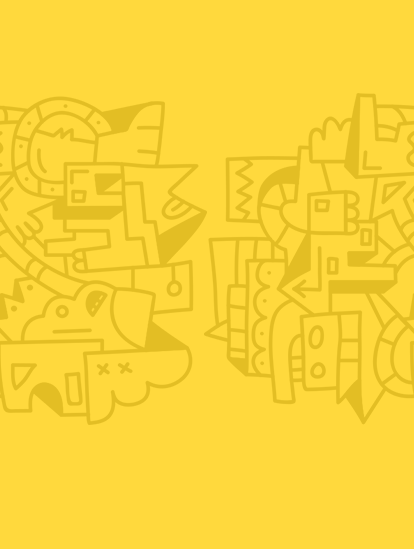
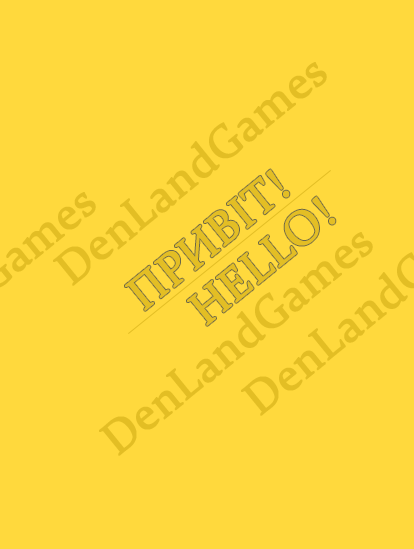
q3twytjh

Changed region(s): [[0.0, 0.0929, 1.0, 0.8361]]

diff --git a/Змійка/script.js b/Змійка/script.js
@@ -71,9 +71,14 @@ function drawGame() {
     snake.pop();
 
   if(snakeX < box || snakeX > box * 17
-    || snakeY < 3 * box || snakeY > box * 17)
+    || snakeY < 3 * box || snakeY > box * 17){
+    ctx.clearRect(0, 0, canvas.width, canvas.height);
+    ctx.drawImage(ground, 0, 0);
+    ctx.fillStyle = "white";
+    ctx.font = "50px Arial";
+    ctx.fillText(score, box * 2.5, box * 1.7);
     clearInterval(game);
-
+}
   if(dir == "left") snakeX -= box;
   if(dir == "right") snakeX += box;
   if(dir == "up") snakeY -= box;
@@ -83,6 +88,12 @@ function drawGame() {
     x: snakeX,
     y: snakeY
   };
+  var Record = document.getElementById('reco');
+  var rec=0;
+  if(rec<score){
+    rec=score;
+  }
+Record.innerHTML = "найкращий результат: "+rec;
 
   eatTail(newHead, snake);
 
@@ -92,6 +103,7 @@ function drawGame() {
 let game = setInterval(drawGame, 100);
 
 function restart(){
+  score=0
   let food = {
   x: Math.floor((Math.random() * 17 + 1)) * box,
   y: Math.floor((Math.random() * 15 + 3)) * box,
@@ -171,4 +183,9 @@ function drawGame() {
 }
 
 let game = setInterval(drawGame, 100);
+if(rec<score){
+    rec=score;
+  }
+  var Record = document.getElementById('reco');
+  Record.innerHTML = "найкращий результат: "+rec;
 }

diff --git a/Змійка/styleZmi.css b/Змійка/styleZmi.css
@@ -3,6 +3,7 @@
 	margin:0;
 }
 #window{
+	/*margin-top:0.1%;*/
 	margin-left: 19%;
 	float: left;
 	margin-right: 1%;
@@ -11,15 +12,39 @@
 	width:100%;
 	background-color:rgba(0,0,0,0.7);
 	color:white;
-	font-size:120%;
+	font-size:100%;
 	font-family:Century Gothic;
+	border-bottom: black solid 1px;
 }
 .zagolovok:hover{
 	color:red;
 }
 body{
-	background-image:url("Images/bg.jpg");
+	background-image:url("Images/1.png");
 }
 #control{
 	float: left;
+}
+canvas{
+	border:2px solid black;
+}
+button{
+	border: 2px solid black;
+	margin-top: 2%;
+	margin-left:10%; 
+	font-size:300%;
+}
+img{
+	border:2px solid black;
+}
+marquee{
+	float:left;
+	position: fixed;
+	align-content: center;
+	bottom:0;
+	left:0;
+	right:0;
+	color:white;
+	font-size:200%;
+	background-color: rgba(0,0,0,0.7);
 }

diff --git a/Змійка/snake.html b/Змійка/snake.html
@@ -27,7 +27,7 @@
 	<div class='zagolovok' align="center">Snake</div>
  	<div id="window"><canvas id="game" width="608" height="608"></canvas></div>
  	<script src="script.js"></script>
-  <div id="control"><br><img src="Images/control.png"><br><button value="Restart" onclick="restart()" name="send">rtjfhm</button></div>
+  <div id="control"><br><img src="Images/control.png"><br><button value="Restart" onclick="restart()" name="send">Рестарт | Restart</button></div>
  	<!-- <script type="text/javascript">
 var count = -1;
 var counter;
@@ -65,5 +65,6 @@ function animation() {
 animation();
 </script>
 </center> -->
+<marquee behavior="alternate" direction="right" id="reco">best score: </marquee>
 </body>
 </html>

diff --git a/style.css b/style.css
@@ -10,7 +10,9 @@ body{
 iframe{
 	float:left;
 	margin-top: 85px;
-	border: #C24A3B solid 10px;
+	border: black solid 5px;
+	border-left: black solid 2px;
+	border-right: black solid 2px;
 	border-radius: 10px;
 }
 section{
@@ -85,6 +87,7 @@ section .wave.wave4{
 	color:white;
 	font-size:50;
 	font-family:Century Gothic;
+	border-bottom:black solid 1px;
 }
 .zagolovok:hover{
 	color:red;
@@ -98,7 +101,7 @@ games{
 	width:25%;
 	background-color:rgba(0, 0, 0,0.89);
 	float:left;
-	border:1px solid #FFF;
+	border:1px solid #000;
 	color:white;
 	font-size:40;
 	height:22%;

diff --git a/Atari/style.css b/Atari/style.css
@@ -1,5 +1,5 @@
 body{
-	background-image:url(Images/1.jpg);
+	background-image:url(Images/1.png);
 }
 canvas { 
 	background-image:url(Images/bg.jpg);
